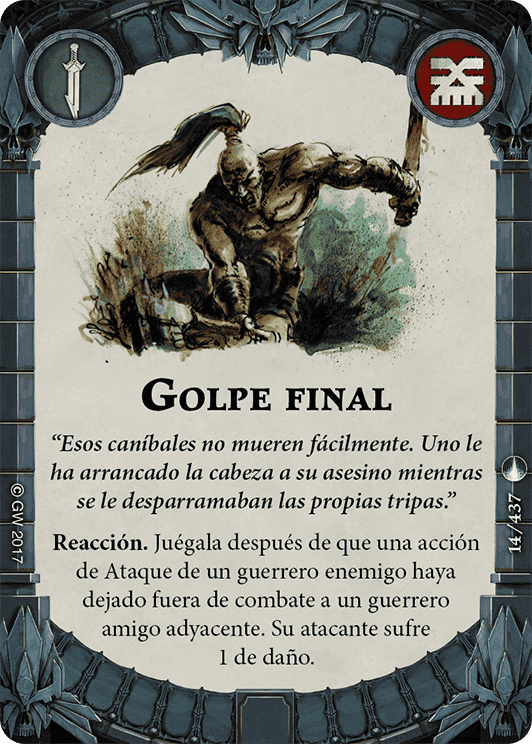
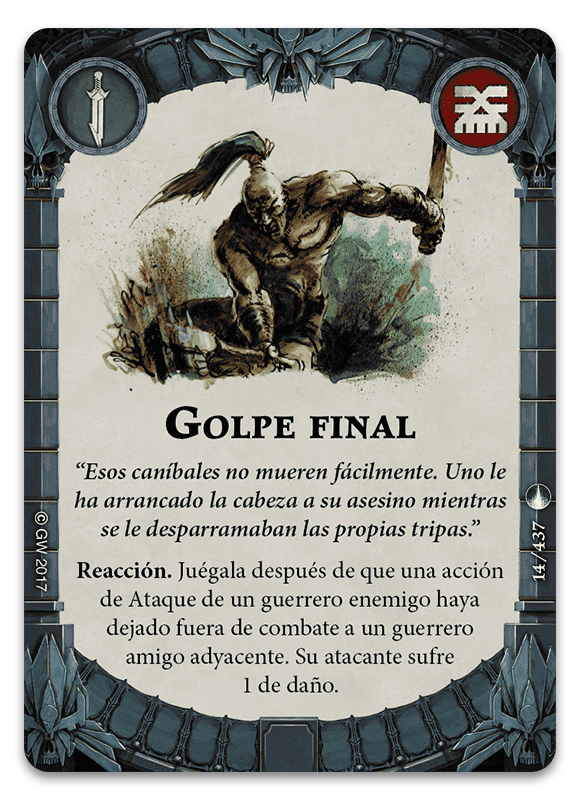
iconos, cartas, etc.

diff --git a/src/app/card-selector/card-selector.component.scss b/src/app/card-selector/card-selector.component.scss
@@ -11,6 +11,10 @@
 		border: none;
 		padding: 15px;
 
+		@media screen and (max-width: 500px) {
+			padding: 15px 5px;
+		}
+
 		p {
 			background: #DADADA;
 			margin: 0;
@@ -18,7 +22,11 @@
 	}
 
 	.file-card {
-		border-bottom: 1px solid #DADADA;
+		border-bottom: 1px solid transparent;
+		-moz-border-image: -moz-linear-gradient(to right, #fff 0%,#CACACA 50%, #fff 100%);
+	    -webkit-border-image: -webkit-linear-gradient(to right, #fff 0%,#CACACA 50%, #fff 100%);
+	    border-image: linear-gradient(to right, #fff 0%,#CACACA 50%, #fff 100%);
+	    border-image-slice: 1;
 		padding: 15px;
 
 		@media screen and (max-width: 500px) {
@@ -26,7 +34,11 @@
 		}
 
 		&:hover {
-			border-bottom: 1px solid #A04545;
+			border-bottom: 1px solid transparent;
+			-moz-border-image: -moz-linear-gradient(to right, #fff 0%,#A04545 50%, #fff 100%);
+		    -webkit-border-image: -webkit-linear-gradient(to right, #fff 0%,#A04545 50%, #fff 100%);
+		    border-image: linear-gradient(to right, #fff 0%,#A04545 50%, #fff 100%);
+		    border-image-slice: 1;
 			text-decoration: none;
 
 			p {

diff --git a/src/app/card-viewer/card-viewer.component.scss b/src/app/card-viewer/card-viewer.component.scss
@@ -1,24 +1,20 @@
 .viewer-box {
 	text-align: center;
-	margin-top: 40px;
-
-	h3 {
-		margin-bottom: 20px;
-	}
+	margin-top: 20px;
 
 	.figure {
-		margin: 30px auto;
+		margin: 0px auto 10px;
+		width: 250px;
+	}
 
-		img {
-			-webkit-box-shadow: 0px 10px 25px -1px rgba(0,0,0,0.4);
-			-moz-box-shadow: 0px 10px 25px -1px rgba(0,0,0,0.4);
-			box-shadow: 0px 10px 25px -1px rgba(0,0,0,0.4);
-		}
+	.description {
+		margin-bottom: 30px;
 	}
 
 	.btn {
 		background: #464646;
 		color: #fff;
+		border-radius: 0;
 
 		&:hover {
 			background: #A04545;

diff --git a/src/app/card-viewer/card-viewer.component.html b/src/app/card-viewer/card-viewer.component.html
@@ -7,10 +7,10 @@
     {{ card.title }}
     <small class="text-muted">#{{ card.number }}</small>
   </h3>
-  <p innerHTML="{{ card.mainText }}"></p>
   <figure class="figure">
     <img class="img-fluid figure-img" src="./assets/images/{{card.number}}.png" alt="">
   </figure>
+  <p class="description" innerHTML="{{ card.mainText }}"></p>
   <p>
     <button class="btn btn-block" (click)="goBack()">Volver</button>
   </p>

diff --git a/src/app/app.component.scss b/src/app/app.component.scss
@@ -100,19 +100,8 @@ main {
 .icos-menu {
 	width: 100%;
 	text-align: center;
-	margin-top: 10px;
-
-	// @media screen and (min-width: 1000px) {
-	// 	width: 60%;
-	// 	text-align: right;
-	// 	display: inline-block;
-	// 	float: right;
-	// 	margin-top: 0px;
-
-	// 	div {
-	// 		padding: 5px 0;
-	// 	}
-	// }
+	padding-top: 10px;
+	padding-bottom: 10px;
 
 	a {
 		display: inline-block;

diff --git a/src/app/card-selector/card-selector.component.html b/src/app/card-selector/card-selector.component.html
@@ -21,7 +21,7 @@
 <div class="table">
     <div class="row head-list">
         <p class="col-2 col-sm-1">#</p>
-        <p class="col-10 col-sm-11">Nombre</p>
+        <p class="col-10 col-sm-11">Cartas con erratas</p>
     </div>
 
     <div class="row">
